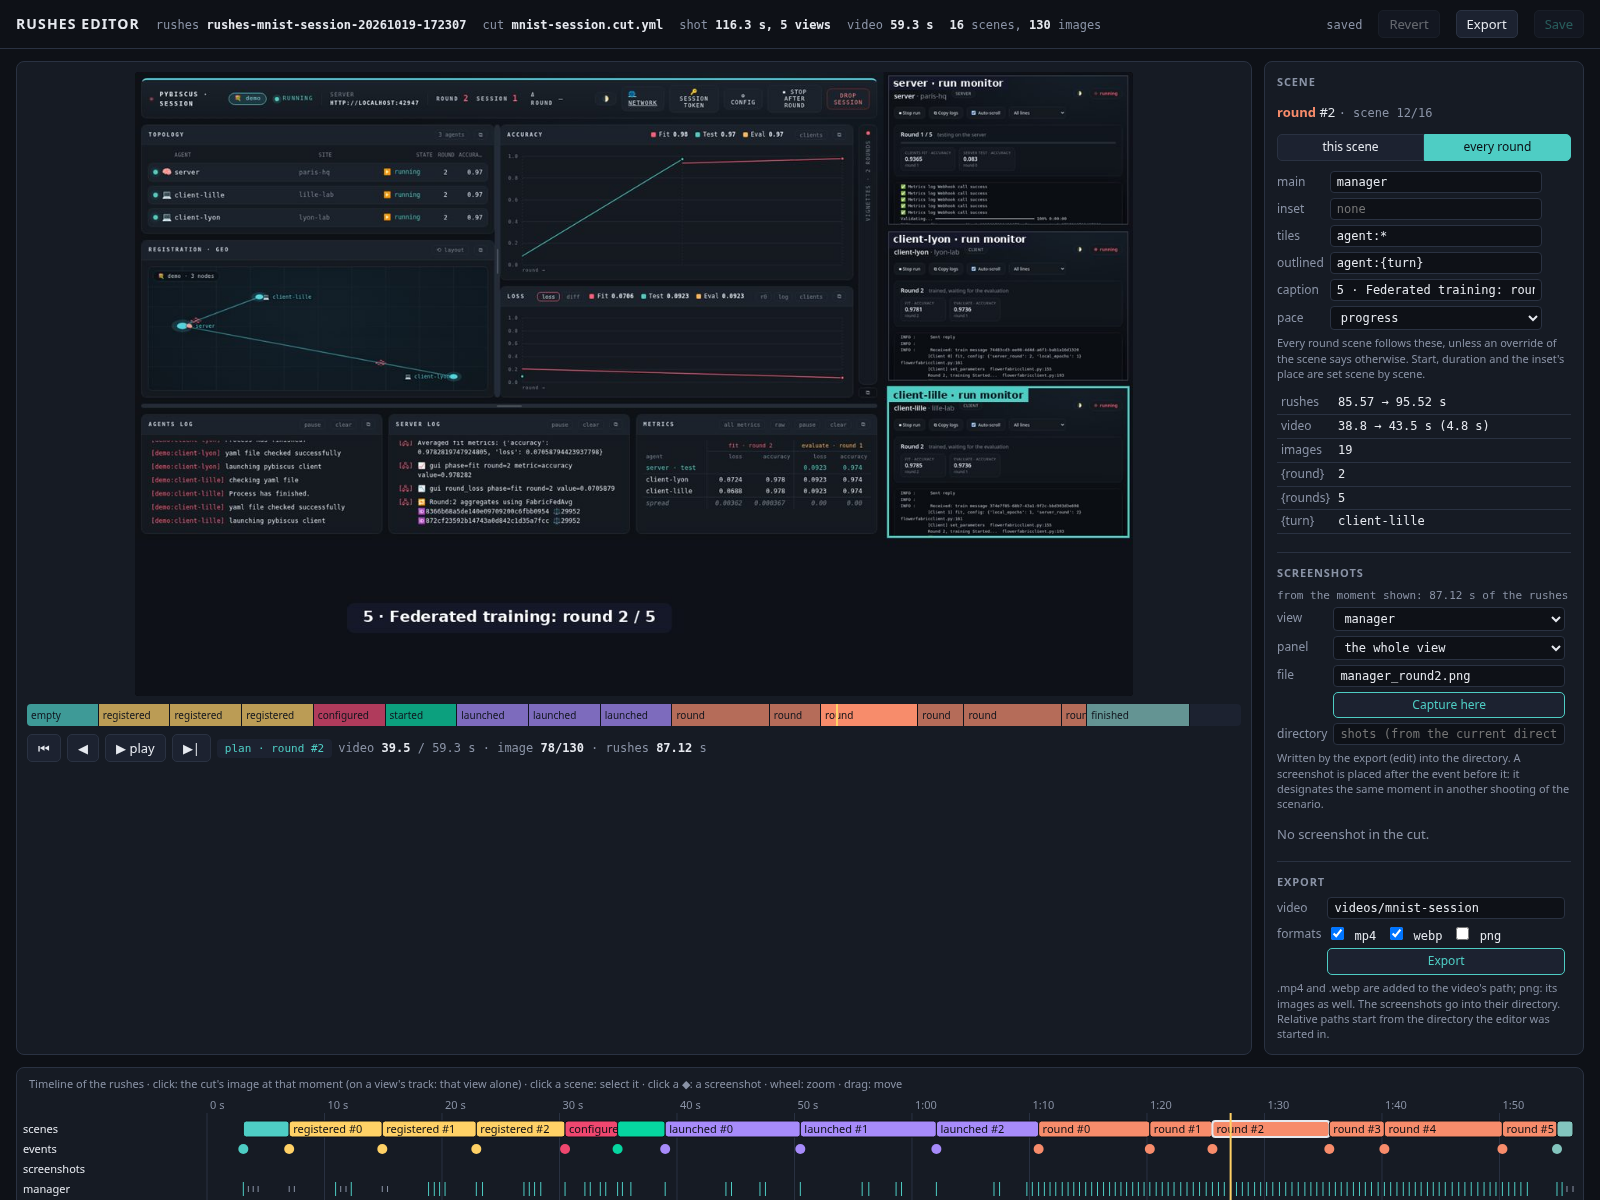
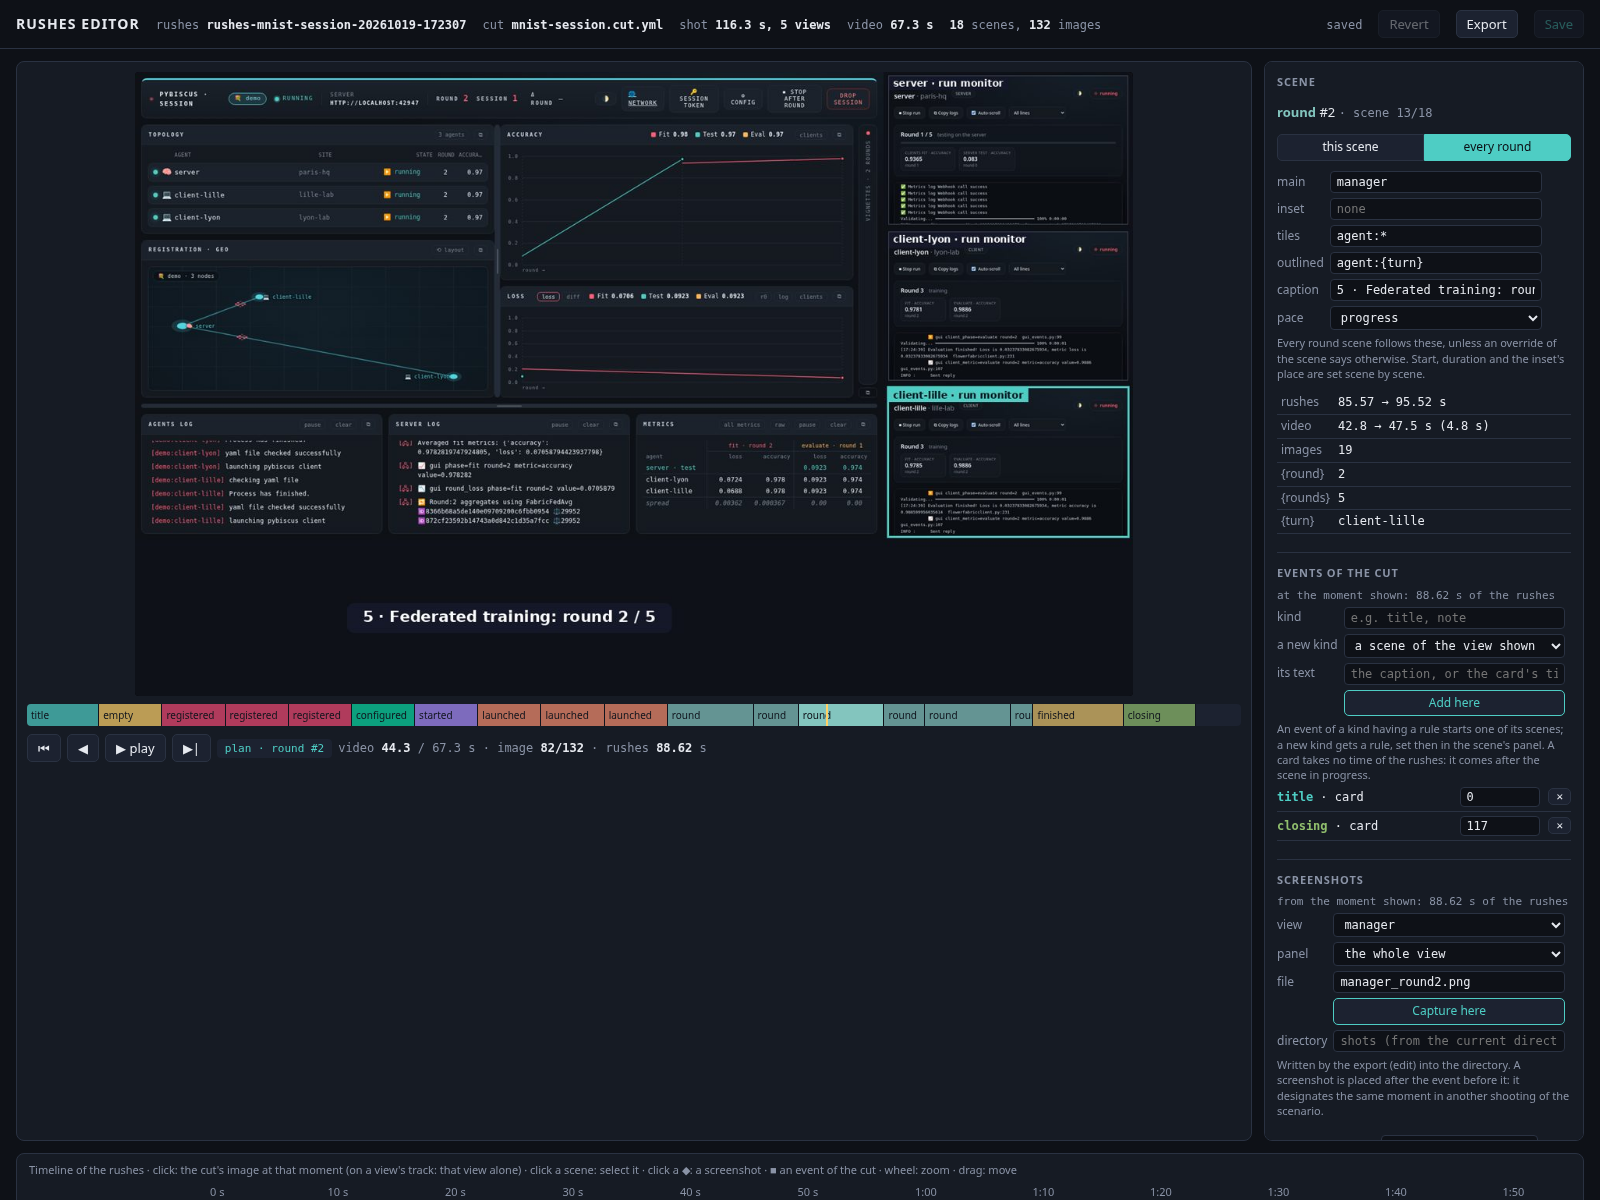
docs/images: the editor's screenshots taken again (the events of the cut section), recording_editor_cards.png added (a title card selected, the events of the cut, their marks on the timeline) and shown in nakyma/README.md; the editor's note for a card's rule no longer mentions an inset; taken by Pla

diff --git a/nakyma/src/nakyma/editor.html b/nakyma/src/nakyma/editor.html
@@ -318,7 +318,8 @@ function renderScene(){
       field('slots', 'tiles slots', number('slots', 1, `${cut.mosaic.slots} (the cut's)`)) +
       `<span class="note">{field}: a field of the event · yellow: set for this scene only · ↺ back to the rule</span>`;
   } else {
-    form += `<span class="note">Every ${esc(s.kind)} scene follows these, unless an override of the scene says otherwise. Start, duration and the inset's place are set scene by scene.</span>`;
+    form += s.card ? `<span class="note">Every ${esc(s.kind)} card shows these, unless an override of the card says otherwise. Its moment and duration are set card by card.</span>`
+      : `<span class="note">Every ${esc(s.kind)} scene follows these, unless an override of the scene says otherwise. Start, duration and the inset's place are set scene by scene.</span>`;
   }
   const facts = `<table class="facts">
       <tr><td>rushes</td><td class="v">${s.card ? `a card at ${s.start.toFixed(2)} s, no time of the rushes` : `${s.start.toFixed(2)} → ${s.end.toFixed(2)} s`}</td></tr>

diff --git a/nakyma/README.md b/nakyma/README.md
@@ -291,6 +291,8 @@ listed, moved by typing its moment, removed with ✕, and marked ■ on the time
 editing is enough for a presented video: the title, the intertitles and the end, and the scenes
 the shooting did not mark, are added there.
 
+![the editor: a title card selected, the events of the cut listed, their marks on the timeline](../docs/images/recording_editor_cards.png)
+
 **Screenshots**: *Capture here* adds the view shown, whole or one of its panels, at the moment shown
 (in the plan: the scene's main view at that image; on a view's track: that view), under the file
 name proposed or typed; a take of the rushes is added under its name. The shot is written from the
